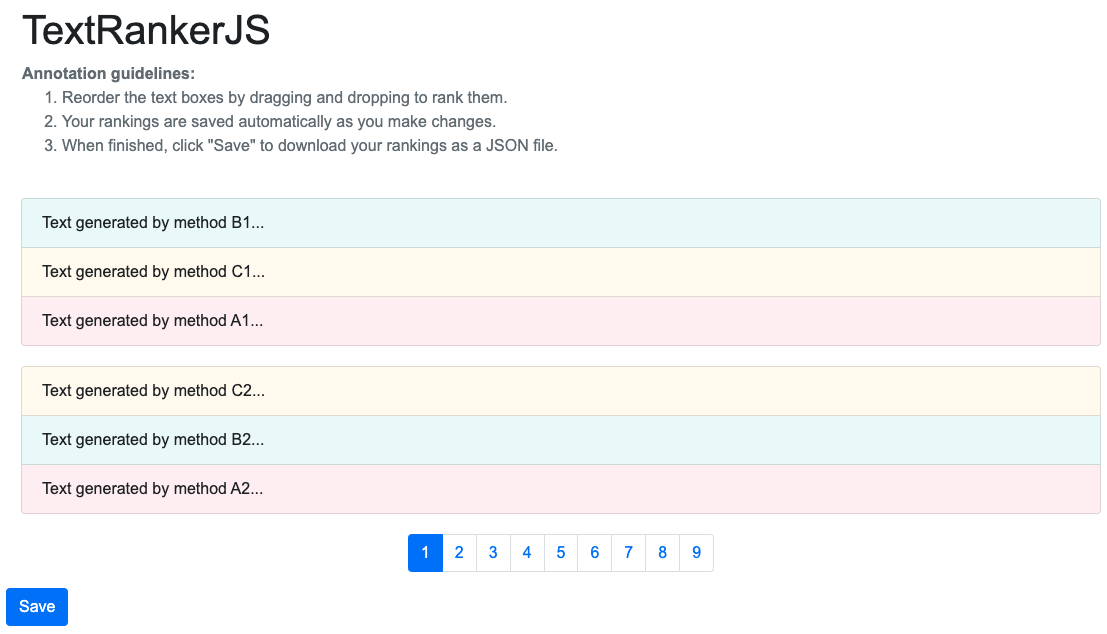
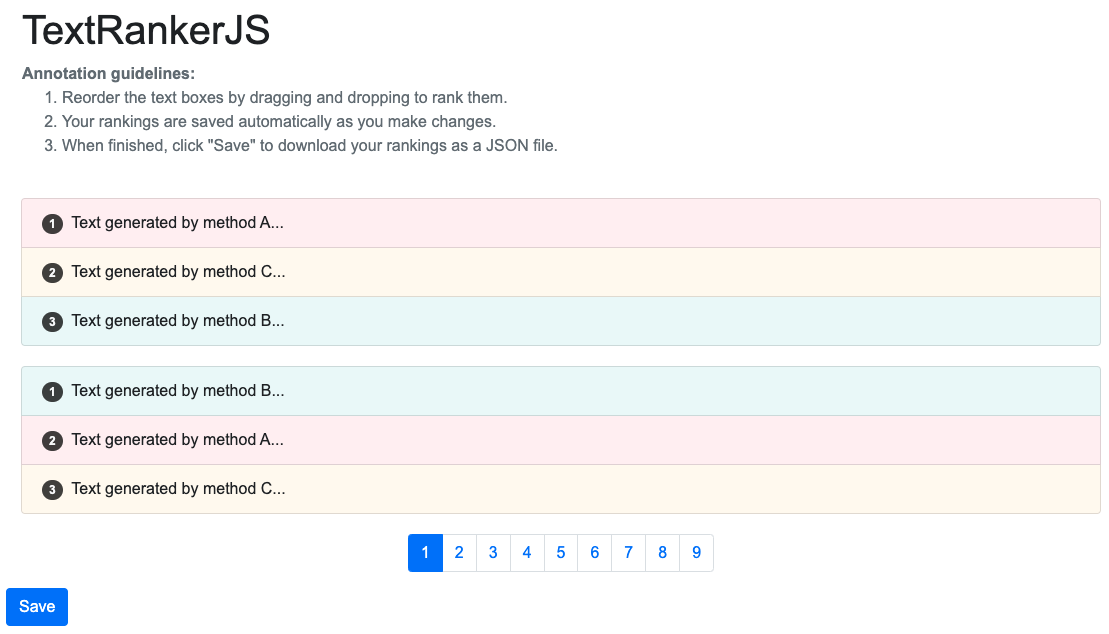
Update README

diff --git a/README.md b/README.md
@@ -37,7 +37,7 @@ const examples = [
 ];
 ```
 
-2. Adjust the pageSize variable in the js/main.js file to set the number of triplets displayed per page:
+2. In the `js/main.js` file, adjust the `pageSize` variable to set the number of triplets displayed per page:
 
 ```javascript
 const pageSize = 10; // Change this value to your desired number of triplets per page
@@ -45,6 +45,11 @@ const pageSize = 10; // Change this value to your desired number of triplets per
 
 By modifying these settings, you can easily adapt TextRankerJS to work with your own examples and preferred page size.
 
+3. In the `js/main.js` file, set the `colorizeBoxes` flag to `false` to disable the background colors for each method.
+
+```javascript
+const colorizeBoxes = true; // Set to 'false' to disable background colors for method boxes
+```
 
 
 ## License
